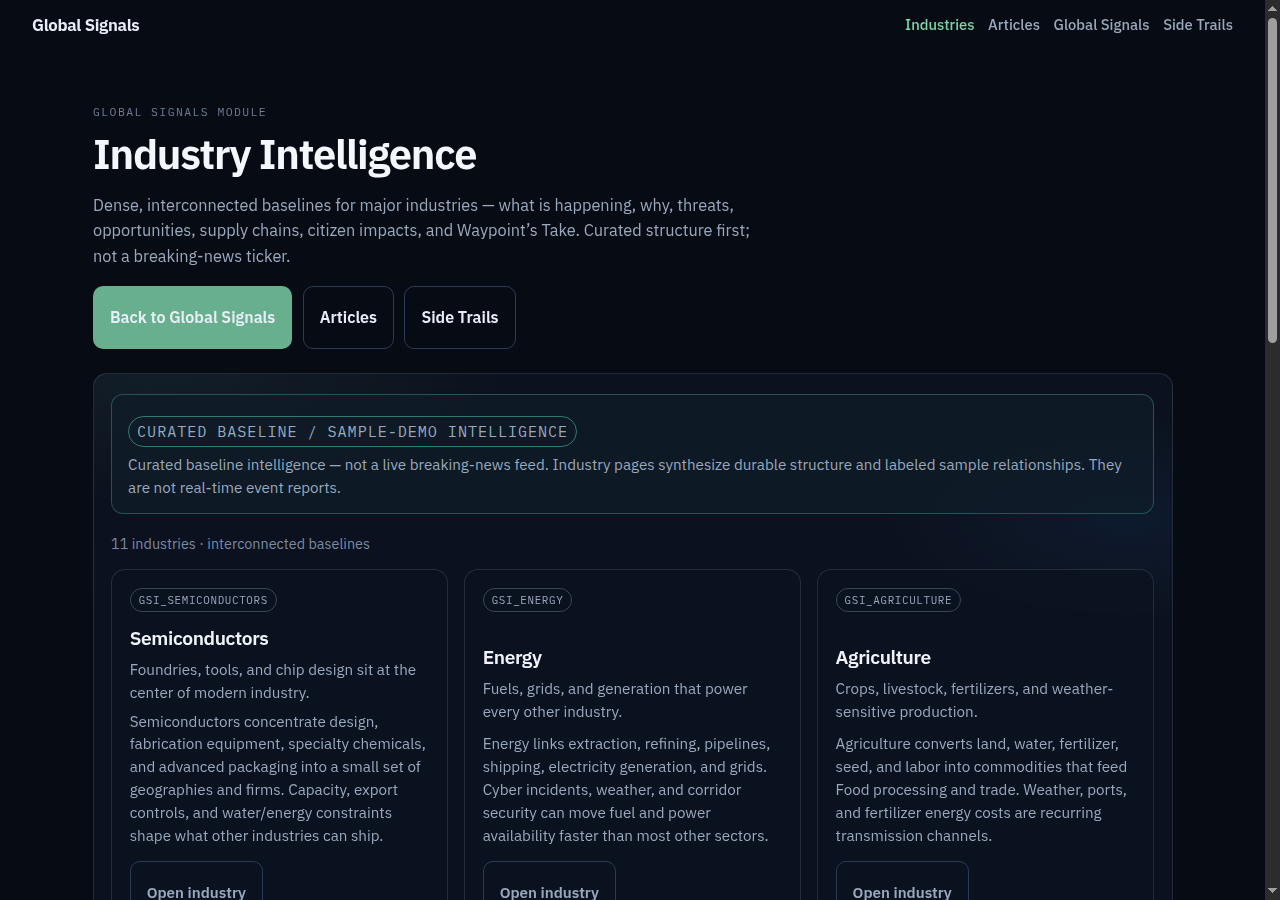
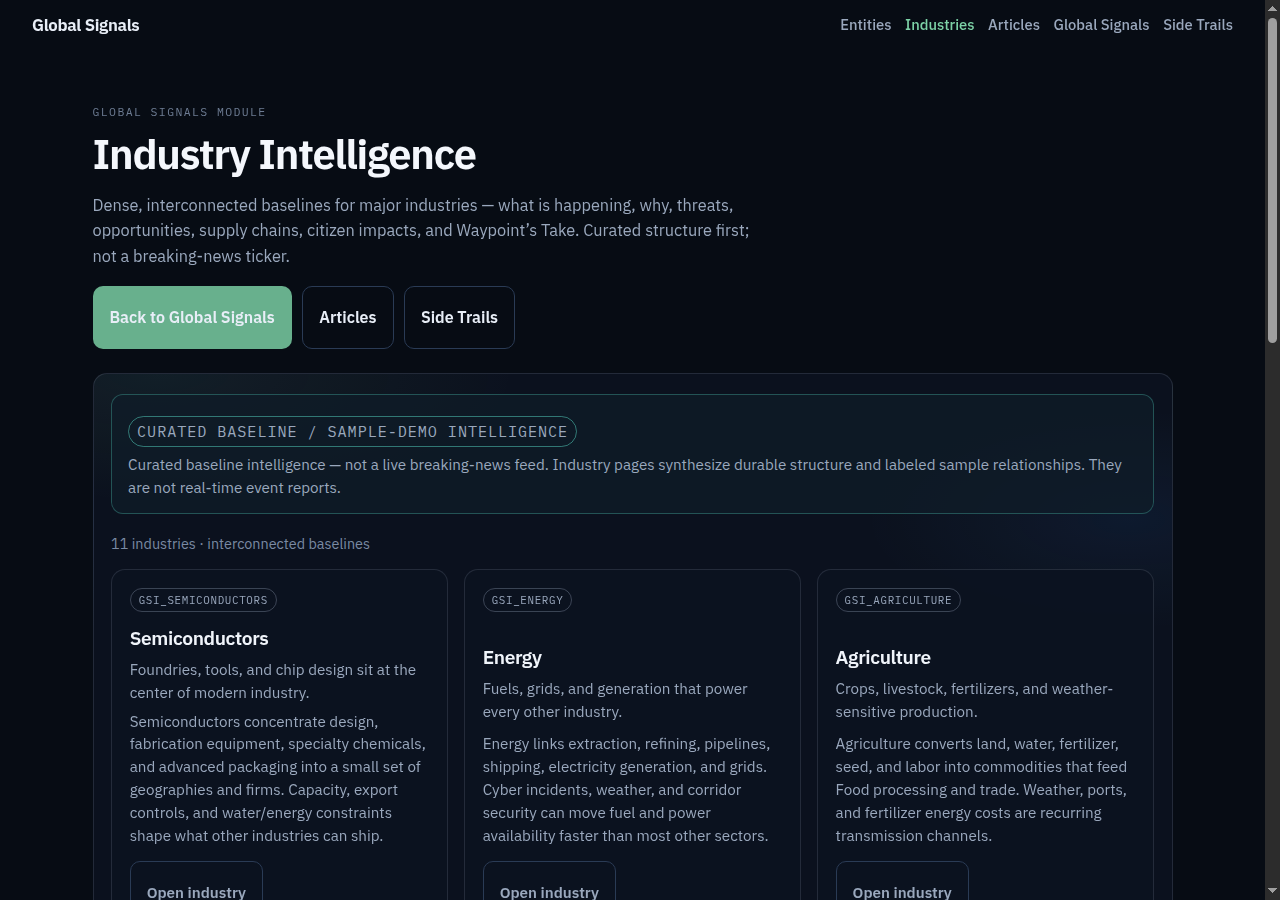
fix(global-signals): stabilize beta after late Home and Entity tips
Align foundation/entity tests with the home board shell, keep Search/Entities
in home chrome, refresh Beta screenshots and owner review for mid-review tip
moves. Do not merge to main.

diff --git a/side-trails/global-signals/index.html b/side-trails/global-signals/index.html
@@ -58,6 +58,8 @@
       <p>Relationship intelligence platform — not a news website, not financial advice. Part of Side Trails.</p>
       <p>
         <a href="./explain/">Explain This</a>
+        <a href="./search/">Search</a>
+        <a href="./entities/">Entities</a>
         <a href="./relationship-graph/">Relationship Graph</a>
         <a href="./relationships/">Relationship Explorer</a>
         <a href="./countries/">Country Intelligence</a>

diff --git a/docs/releases/global-signals-beta-owner-review.md b/docs/releases/global-signals-beta-owner-review.md
@@ -40,13 +40,13 @@ A coherent intelligence shell ships on `release/global-signals-beta`: landing, E
 | Industry Intelligence | `feature/global-signals-industry-intelligence` | `435ecda` | yes | Integrated |
 | Relationship Graph | `feature/global-signals-relationship-graph` | `2e3f271` | yes | Integrated |
 | Explain This | `feature/global-signals-explain-this` | `3528c3f` | yes | Integrated |
-| Home / Dashboard | `feature/global-signals-home-dashboard` | `f7ade1e` | **local only** | Umbrella merges only — no dashboard feature |
+| Home / Dashboard | `feature/global-signals-home-dashboard` | `bac5862` | local (tip moved mid-review) | **Integrated** — real `gsh-board` home |
 | Universal Search | `feature/global-signals-universal-search` | `4f788ee` | yes | Integrated on release |
-| Entity system | `feature/global-signals-entity-system` | `da0f514` (+ WIP) | **local only** | Incomplete — wait |
+| Entity system | `feature/global-signals-entity-system` | `86f5f34` | local (tip moved mid-review) | **Integrated** — shared entity shell |
 | Graph backbone | `feature/global-signals-graph-backbone` | `2e3f271` | local only | Alias of Relationship Graph tip |
 | Story Mode | `feature/global-signals-story-mode` | `3528c3f` | local only | Alias of Explain This tip — not a separate feature |
 
-**Still incomplete at review close:** Entity system (uncommitted shell work in progress), Story Mode (no distinct implementation), true Home Dashboard (route remains honest empty shell). Home-dashboard branch tip did not move after Explain This merge during this review.
+**Late tips integrated during review close:** Entity System (`86f5f34`) and Home Dashboard board (`bac5862` / feat `b31a819`) landed while review was in progress and were merged onto the release branch. **Still incomplete:** Story Mode (tip still equals Explain This — no distinct feature). `/global-dashboard/` remains an honest empty shell; the real home is `/side-trails/global-signals/` (`gsh-board`).
 
 ---
 
@@ -101,6 +101,8 @@ Directory: [`docs/releases/global-signals-beta/`](global-signals-beta/) — see 
 | 13 | Explain This Taiwan | Signature module working; confidence / path / match disclosed |
 | 14–15 | Global Dashboard / Waypoint’s Take | Honest coming-soon shells |
 | 16 | Search Taiwan | Working structured search results |
+| 18 | Home dashboard board | Real `gsh-board` after late home tip |
+| 19 | Entity Taiwan | Shared entity shell |
 
 Module-level screenshot packs also remain under `docs/global-signals/{articles,relationships,relationship-graph,countries,industries,citizen-impact,explain,search}/`.
 
@@ -117,9 +119,9 @@ None that falsify sample/demo Experimental Beta. Production claims would be P0.
 | ID | Finding | Evidence |
 | --- | --- | --- |
 | P1-1 | **Fragmented product nav.** Landing has full module nav; module pages each ship a different subset (Articles misses Countries/Industries/Citizen/Search/Explain; Countries/Industries/Citizen only link Articles + home). | Nav audit + screenshots 03–13 |
-| P1-2 | **Home Dashboard does not exist.** `/global-dashboard/` is an honest empty shell; `feature/global-signals-home-dashboard` is an integration umbrella, not a dashboard product. Landing is the real entry. | Screenshot 14; branch history |
+| P1-2 | **Two “homes”.** Real board is `/side-trails/global-signals/`; `/global-dashboard/` is still coming soon. Keep primary entry on the board; hide/demote the empty shell. | Screenshots 01/18 vs 14 |
 | P1-3 | **Duplicate relationship surfaces without clear hierarchy in chrome.** Graph vs Explorer vs Explain all “do relationships.” Landing elevates Explain; module headers still bury the hierarchy. | Landing CTAs vs module page chrome |
-| P1-4 | **Entity system incomplete.** No shared entity shell on release; WIP local branch only. Cross-links use module-specific pages (`countries/`, `industries/`, `?entity=`) without a unified entity URL. | Branch tip `da0f514` + uncommitted WIP |
+| P1-4 | **Entity shell integrated but not yet the universal deep-link target.** Search/Explain/Graph still often point at module routes; Countries/Industries alias entities — finish rewiring for one app feel. | Entities module + Search index |
 
 ### P2 — polish for cohesion
 
@@ -147,7 +149,7 @@ None that falsify sample/demo Experimental Beta. Production claims would be P0.
 
 ### Dashboard / Home
 
-**Not shippable as a dashboard.** Landing (`/side-trails/global-signals/`) is the working home. `/global-dashboard/` correctly says coming soon. Do not market Beta as having a Global Dashboard.
+**Shippable as application home.** `/side-trails/global-signals/` is now a dense sample/demo intelligence board (`gsh-board`) composing live module datasets. `/global-dashboard/` remains an honest empty shell — do not confuse the two. Home tip moved mid-review from umbrella-only to feat `b31a819`.
 
 ### Articles
 
@@ -179,7 +181,7 @@ Signature module works; deterministic matching; honest gaps; no LLM. Best Beta f
 
 ### Entity system
 
-Incomplete — wait. When ready, should own `/entities/<type>/<id>/` (or equivalent) and become the deep-link target for Search / Graph / Explain instead of module-specific shells.
+**Integrated late.** Canonical `/entities/<type>/<slug>/` with Countries/Industries as aliases. Dual `?entity=` / `?focus=` contract for graph soft-links. Module nav still fragmented vs home chrome.
 
 ### Search
 
@@ -245,9 +247,8 @@ Screenshot capture: `node automation/capture-gs-beta-owner-review-screenshots.mj
 
 | Branch | Reason |
 | --- | --- |
-| `feature/global-signals-entity-system` | Incomplete WIP |
 | `feature/global-signals-story-mode` | No distinct feature |
-| Further home-dashboard feature commits | None beyond umbrella; dashboard still shell |
+| Further churn on home/entity after `bac5862` / `86f5f34` | Re-fetch before audience Beta if tips move again |
 
 ### Explicitly out of scope
 
@@ -299,11 +300,11 @@ Deprioritize new features. Prefer:
 
 | Decision | Call |
 | --- | --- |
-| Experimental Beta branch | **GO** — prepared on `release/global-signals-beta` |
+| Experimental Beta branch | **GO** — prepared on `release/global-signals-beta` (includes late Home + Entity tips) |
 | Merge to main | **NO** |
 | Deploy | **NO** |
 | Market as finished Global Signals product | **NO** |
-| Wait for entity / story / real dashboard before main | **YES** |
+| Wait for Story Mode + shared-nav polish before main | **YES** |
 
 ---
 

diff --git a/docs/releases/global-signals-beta/SCREENSHOT-INDEX.md b/docs/releases/global-signals-beta/SCREENSHOT-INDEX.md
@@ -7,15 +7,15 @@ Owner review: [`../global-signals-beta-owner-review.md`](../global-signals-beta-
 
 | File | Route | Viewport |
 | --- | --- | --- |
-| `01-landing-desktop.png` | `/side-trails/global-signals/` | desktop |
+| `01-landing-desktop.png` | `/side-trails/global-signals/` (home board) | desktop |
 | `02-landing-mobile.png` | `/side-trails/global-signals/` | mobile |
-| `03-articles-feed-desktop.png` | `/side-trails/global-signals/articles/` | desktop |
+| `03-articles-feed-desktop.png` | `/articles/` | desktop |
 | `04-articles-detail-desktop.png` | `/articles/?id=gsa_demo-steel-tariff` | desktop |
 | `05-relationship-graph-taiwan-desktop.png` | `/relationship-graph/?focus=gsn_taiwan` | desktop |
 | `06-relationship-graph-mobile.png` | `/relationship-graph/?focus=gsn_taiwan` | mobile |
 | `07-relationship-explorer-taiwan-desktop.png` | `/relationships/?entity=gsn_taiwan` | desktop |
 | `08-countries-index-desktop.png` | `/countries/` | desktop |
-| `09-country-taiwan-desktop.png` | `/countries/taiwan/` | desktop |
+| `09-country-taiwan-desktop.png` | `/countries/taiwan/` (entity alias) | desktop |
 | `10-industries-index-desktop.png` | `/industries/` | desktop |
 | `11-industry-semiconductors-desktop.png` | `/industries/semiconductors/` | desktop |
 | `12-citizen-impact-desktop.png` | `/citizen-impact/` | desktop |
@@ -23,4 +23,6 @@ Owner review: [`../global-signals-beta-owner-review.md`](../global-signals-beta-
 | `14-global-dashboard-coming-soon-desktop.png` | `/global-dashboard/` | desktop |
 | `15-waypoint-take-coming-soon-desktop.png` | `/waypoint-take/` | desktop |
 | `16-search-taiwan-desktop.png` | `/search/?q=Taiwan` | desktop |
-| `17-relationship-graph-taiwan-tall-desktop.png` | `/relationship-graph/?focus=gsn_taiwan` | desktop tall (shows canvas) |
+| `17-relationship-graph-taiwan-tall-desktop.png` | `/relationship-graph/?focus=gsn_taiwan` | desktop tall |
+| `18-home-dashboard-desktop.png` | `/` home board (late tip) | desktop |
+| `19-entities-taiwan-desktop.png` | `/entities/country/taiwan/` | desktop |
